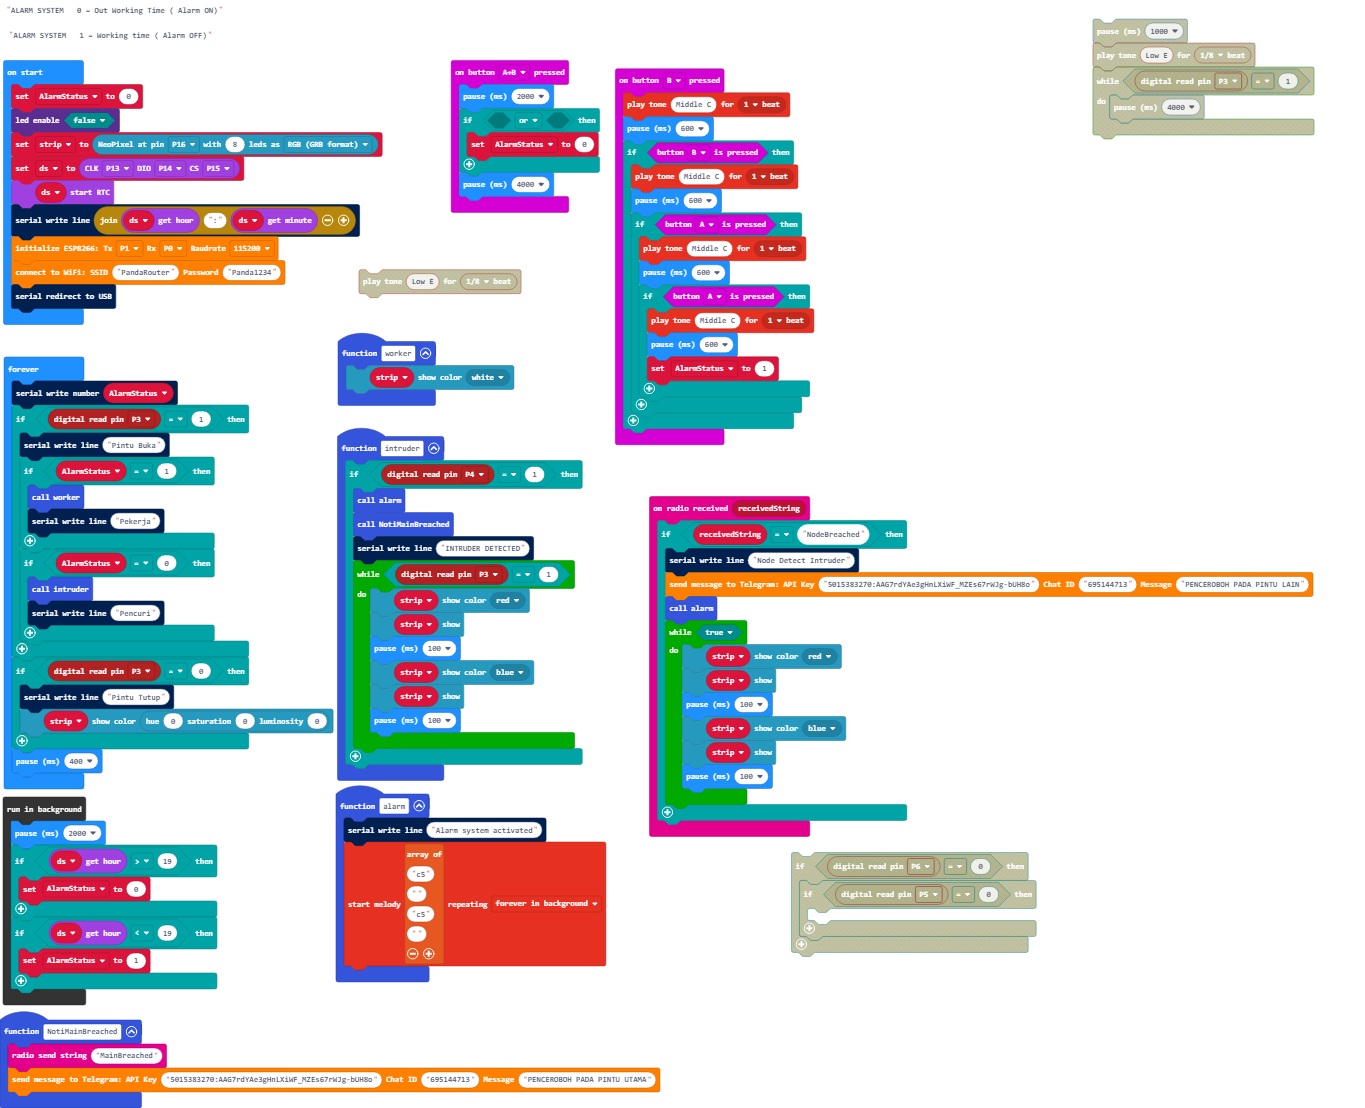
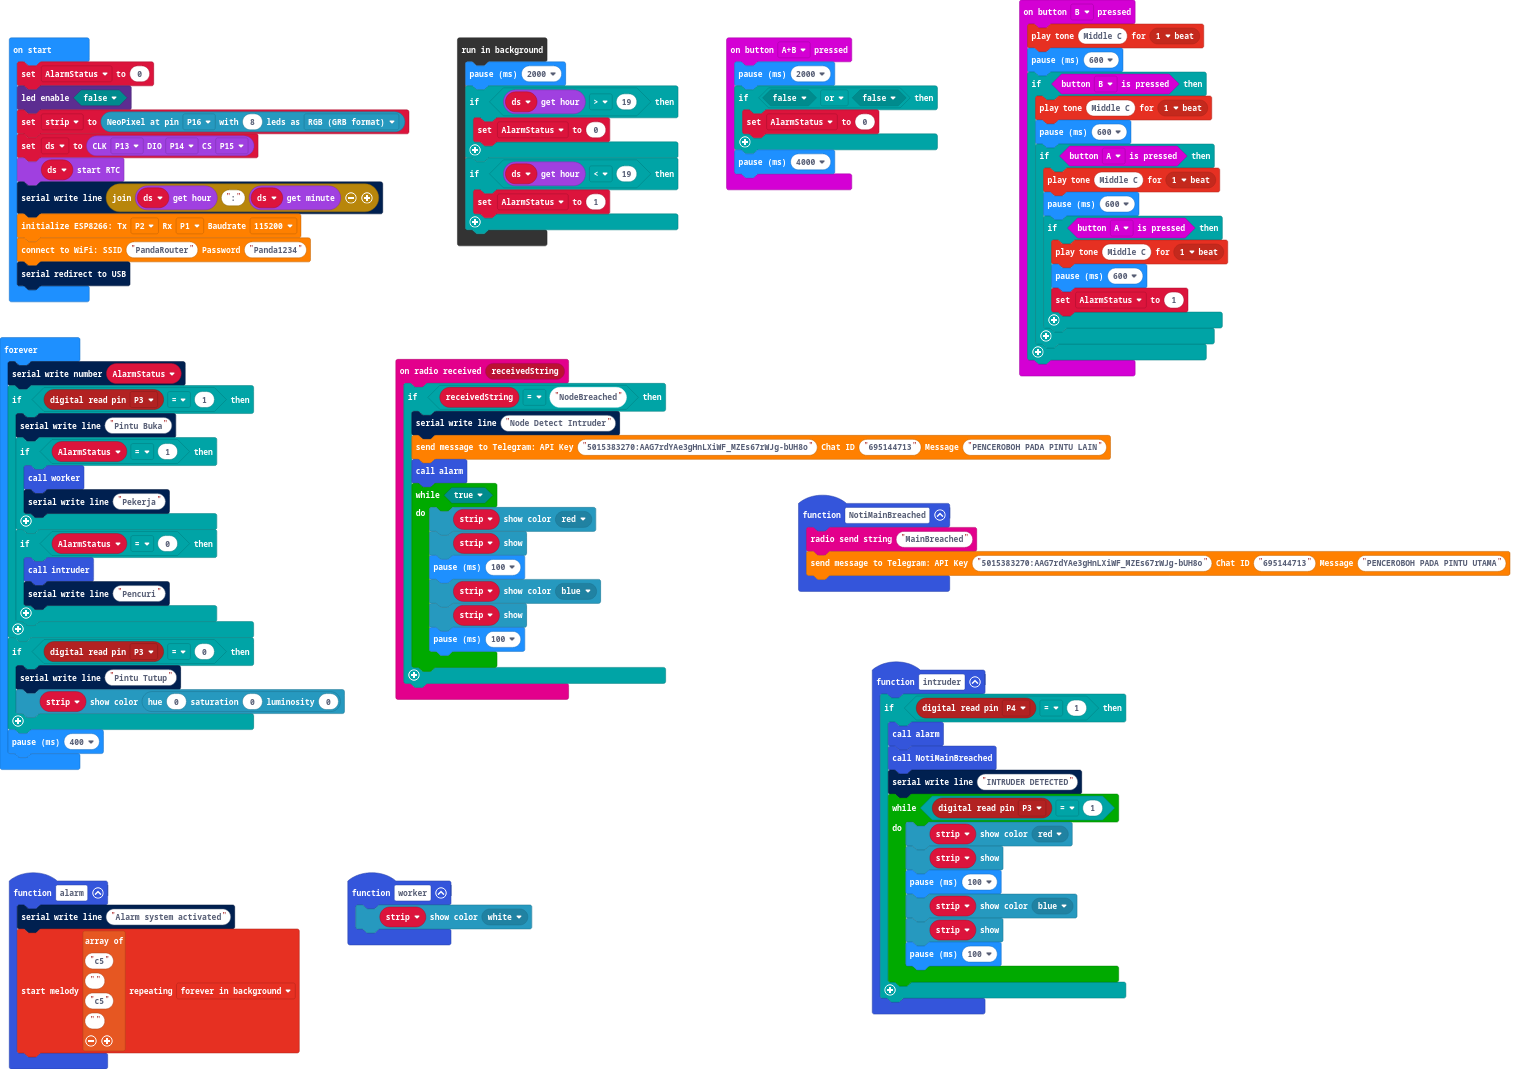
Update main.blocks, main.ts

diff --git a/main.ts b/main.ts
@@ -76,7 +76,7 @@ strip = neopixel.create(DigitalPin.P16, 8, NeoPixelMode.RGB)
 let ds = DS1302.create(DigitalPin.P13, DigitalPin.P14, DigitalPin.P15)
 ds.start()
 serial.writeLine("" + ds.getHour() + ":" + ds.getMinute())
-esp8266.init(SerialPin.P1, SerialPin.P0, BaudRate.BaudRate115200)
+esp8266.init(SerialPin.P2, SerialPin.P1, BaudRate.BaudRate115200)
 esp8266.connectWiFi("PandaRouter", "Panda1234")
 serial.redirectToUSB()
 basic.forever(function () {
